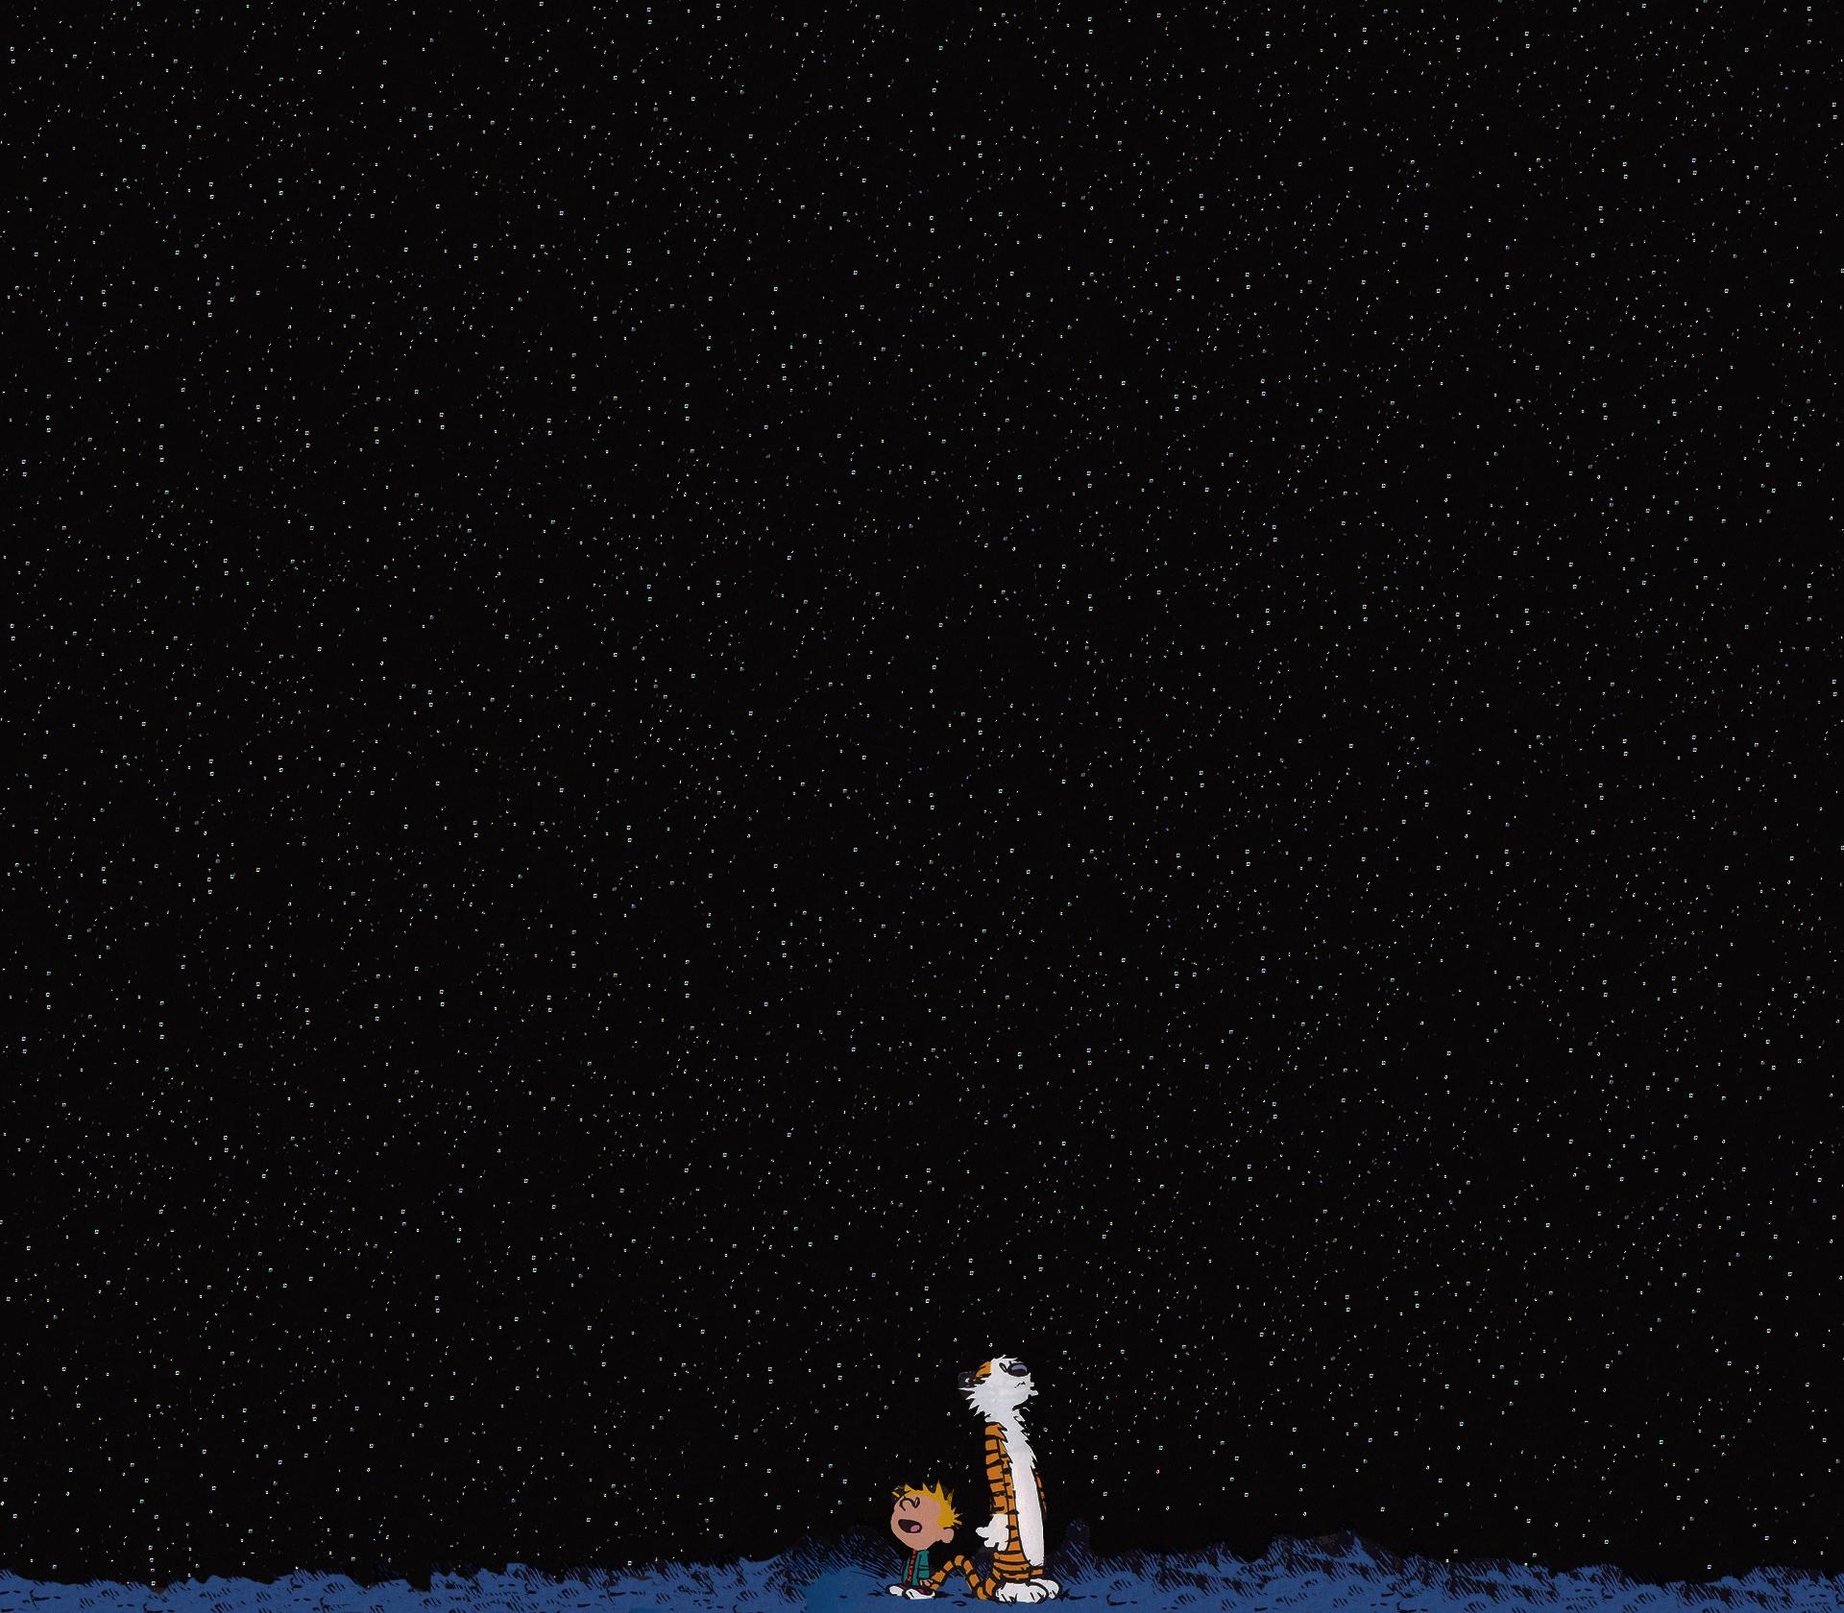
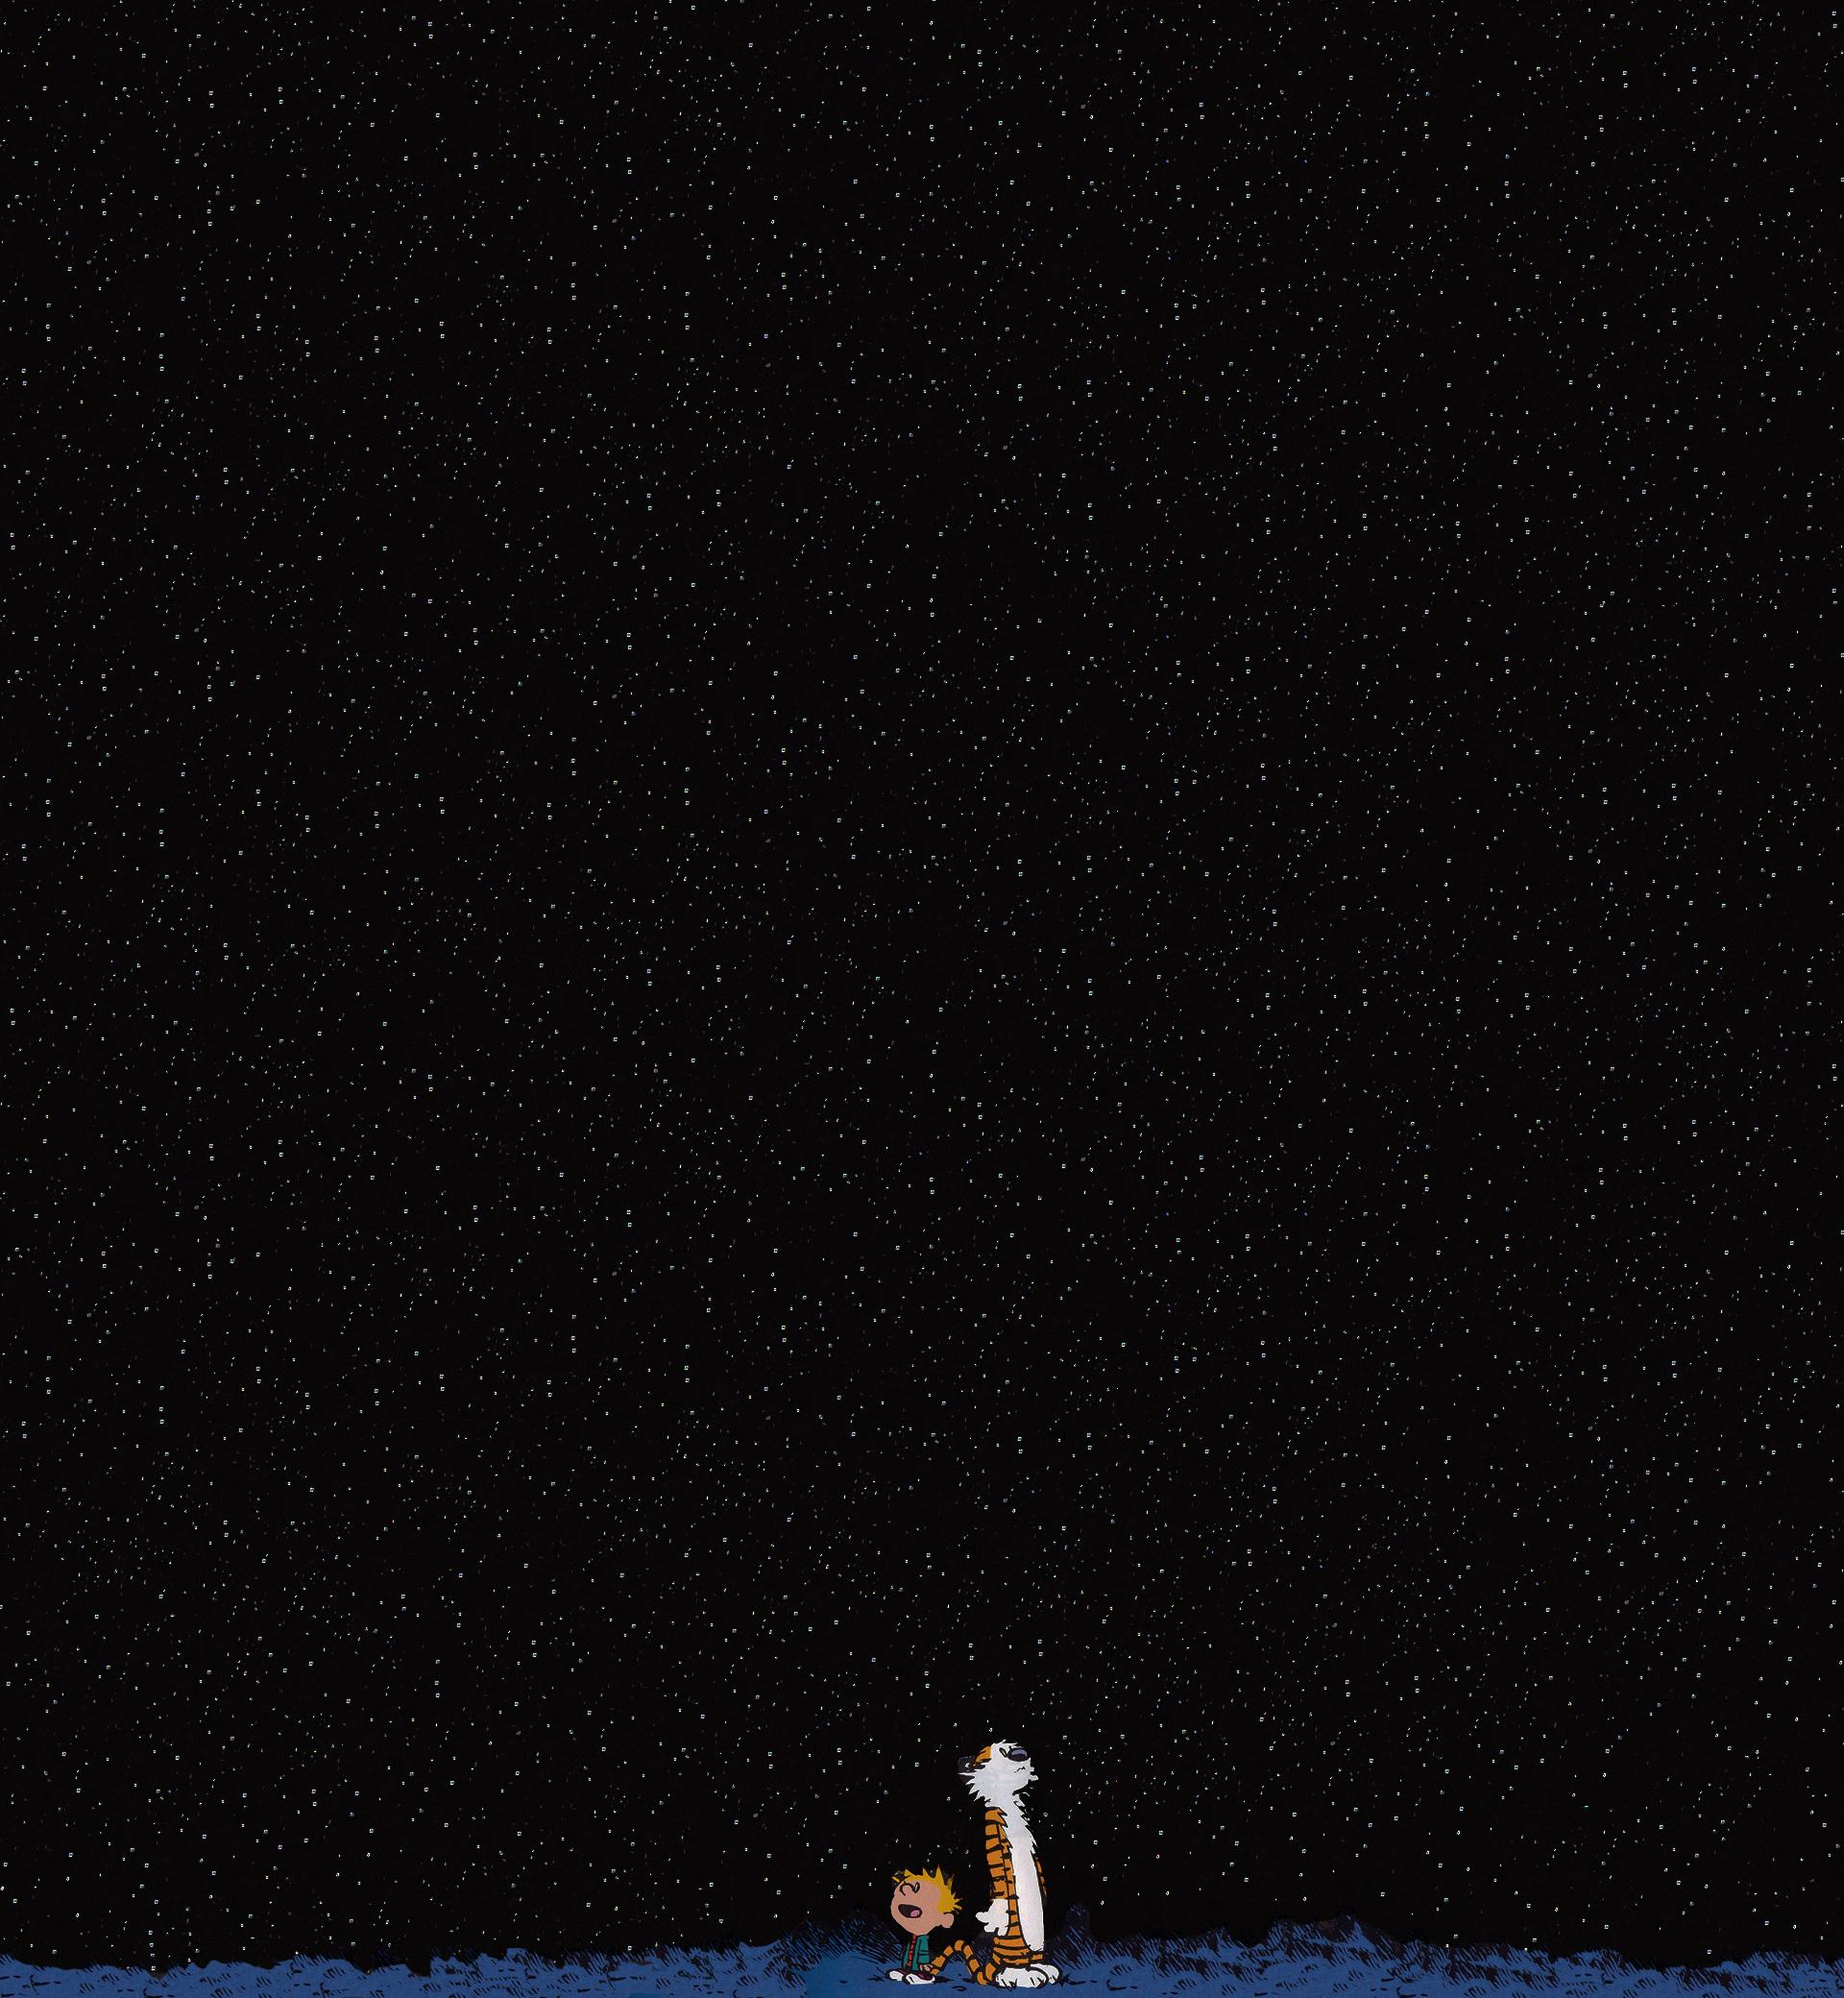
Fixed Dark mode Button, fixed Text

Changed region(s): [[0.0, 0.8357, 1.0, 1.0]]

diff --git a/CSS/main.css b/CSS/main.css
@@ -1,12 +1,16 @@
+@font-face {
+    font-family: SFCartoonistHand;
+    src: url("../Fonts/SFCartoonistHand.ttf");
+}
 body.main {
     margin: 0px;
     border-left: 0.2rem solid #290029;
     border-right: 0.2rem solid #290029;
     border-bottom: 0.2rem solid #290029;
     background-position: bottom left;
-    background-image: url("../Images/background-extended-light.png");
+    background-image: url("../Images/background-extended-light.png"), url("../Images/background-extender-light.png");
     background-color: #93c2dc;
-    background-repeat: no-repeat;
+    background-repeat: no-repeat, repeat;
     background-size: 100%;
 }
 body.main-darkmode {
@@ -15,8 +19,8 @@ body.main-darkmode {
     border-right: 0.2rem solid #290029;
     border-bottom: 0.2rem solid #290029;
     background-position: bottom left;
-    background-image: url("../Images/background-extended.png");
-    background-repeat: no-repeat;
+    background-image: url("../Images/background-extended.png"), url("../Images/background-extender.png");
+    background-repeat: no-repeat, repeat;
     background-size: 100%;
 }
 
@@ -53,6 +57,26 @@ body#gallery-darkmode {
     border-top: 0.2rem solid #290029;
     border-bottom: 0.2rem solid #290029;
 }
+.menu{
+    background-color: #91aff0;
+    margin: 0px;
+    border-top: 0.2rem solid #290029;
+    border-bottom: 0.2rem solid #290029;
+    display: none;
+}
+
+a#menu{
+    color: royalblue;
+    font-size: 200%;
+    font-family: 'Times New Roman', Times, serif;
+    display: inline-block;
+    *display: inline;
+    zoom: 1;
+    width: 33%;
+    text-align: center;
+    font-family: SFCartoonistHand;
+}
+
 a#navbar{
     color: royalblue;
     font-size: 200%;
@@ -62,8 +86,9 @@ a#navbar{
     zoom: 1;
     width: 33%;
     text-align: center;
+    font-family: SFCartoonistHand;
 }
-button#darkmode{
+button#button{
     font-size: 200%;
     font-family: 'Times New Roman', Times, serif;
     display: inline-block;
@@ -72,6 +97,25 @@ button#darkmode{
     width: 32%;
     text-align: center  
 }
+button#button-darkmode{
+    font-size: 200%;
+    font-family: 'Times New Roman', Times, serif;
+    display: inline-block;
+    *display: inline;
+    zoom: 1;
+    width: 32%;
+    text-align: center;
+    background-color: black;
+    color: white;
+}
+
+.menu-darkmode{
+    background-color: #000000;
+    margin: 0px;
+    border-top: 0.2rem solid #290029;
+    border-bottom: 0.2rem solid #290029;
+    display: none;
+}
 
 .navbar-darkmode{
     background-color: #000000;
@@ -79,10 +123,21 @@ button#darkmode{
     border-top: 0.2rem solid #290029;
     border-bottom: 0.2rem solid #290029;
 }
+
+a#menu-darkmode{
+    color: #b6ffba;
+    font-size: 200%;
+    font-family: SFCartoonistHand;
+    display: inline-block;
+    *display: inline;
+    zoom: 1;
+    width: 33%;
+    text-align: center;
+}
 a#navbar-darkmode{
     color: #b6ffba;
     font-size: 200%;
-    font-family: 'Times New Roman', Times, serif;
+    font-family: SFCartoonistHand;
     display: inline-block;
     *display: inline;
     zoom: 1;
@@ -137,11 +192,10 @@ img#image1{
     margin: 2rem;
     border: 0.2rem solid #290029;
     border-radius: 1rem;
-    font-family: 
 }
 p#paragraph1{
     float: right;
-    font-size: 400%;
+    font-size: 340%;
     max-width: 50%;
     margin: 1.8rem;
     padding: 0.2rem;
@@ -162,7 +216,7 @@ img#image2{
 }
 p#paragraph2{
     float: left;
-    font-size: 400%;
+    font-size: 340%;
     max-width: 50%;
     margin: 1.8rem;
     padding: 0.2rem;
@@ -174,7 +228,7 @@ p#paragraph2{
 
 p#paragraph2-darkmode{
     float: left;
-    font-size: 400%;
+    font-size: 340%;
     max-width: 50%;
     margin: 1.8rem;
     padding: 0.2rem;
@@ -186,7 +240,7 @@ p#paragraph2-darkmode{
 }
 p#paragraph1-darkmode{
     float: right;
-    font-size: 400%;
+    font-size: 340%;
     max-width: 50%;
     margin: 1.8rem;
     padding: 0.2rem;
@@ -350,7 +404,74 @@ a#wikilink{
         font-family: SFCartoonistHand;
     }
 }
-@font-face {
-    font-family: SFCartoonistHand;
-    src: url("../Fonts/SFCartoonistHand.ttf");
+
+@media (max-width: 900px) {
+    img#image1{
+        float: none;
+        display: block;
+        margin-left: auto;
+        margin-right: auto;
+        max-width: 90%;
+        height: auto;
+        border: 0.2rem solid #290029;
+        border-radius: 1rem;
+    }
+    p#paragraph1{
+        font-size: 300%;
+        max-width: 100%;
+        margin: 1.8rem;
+        padding: 0.2rem;
+        border: 0.3rem solid #250025;
+        border-radius: 1rem;
+        background-color: rgba(255,255,255,0.9);
+        font-family: SFCartoonistHand;
+    }
+    
+    img#image2{
+        float: none;
+        display: block;
+        margin-left: auto;
+        margin-right: auto;
+        max-width: 90%;
+        height: auto;
+        margin-top: 1rem;
+        margin-bottom: 1rem;
+        border: 0.2rem solid #290029;
+        border-radius: 1rem;
+        clear: right;
+    }
+    p#paragraph2{
+        font-size: 300%;
+        max-width: 100%;
+        margin: 1.8rem;
+        padding: 0.2rem;
+        border: 0.3rem solid #250025;
+        border-radius: 1rem;
+        background-color: rgba(255,255,255,0.9);
+        font-family: SFCartoonistHand;
+    }
+    
+    p#paragraph2-darkmode{
+        font-size: 300%;
+        max-width: 100%;
+        margin: 1.8rem;
+        padding: 0.2rem;
+        border: 0.3rem solid #250025;
+        border-radius: 1rem;
+        background-color: rgba(0,0,0,0.8);
+        color: white;
+        font-family: SFCartoonistHand;
+    }
+    p#paragraph1-darkmode{
+
+        font-size: 300%;
+        max-width: 100%;
+        margin: 1.8rem;
+        padding: 0.2rem;
+        border: 0.3rem solid #250025;
+        border-radius: 1rem;
+        background-color: rgba(0,0,0,0.8);
+        color: white;
+        font-family: SFCartoonistHand;
+    }
 }

diff --git a/index.html b/index.html
@@ -37,16 +37,21 @@
     <div class="navbar">
         <a id="navbar" href="index.html">Page 1</a>
         <a id="navbar" href="gallery.html">Page 2</a>
-        <button id="navbar" onclick="darkModeSwitch()">Darkmode</button>
+        <button id="button" onclick="darkModeSwitch()">Dark Mode</button>
+    </div>
+    <!--<div class="menu">
+        <a id="menu" href="https://html5zombo.com">Zombo.com</a>
+        <a id="menu" href="https://en.wikipedia.org/wiki/Calvin_and_Hobbes">Calvin and Hobbes on Wikipedia</a>
+        <button id="darkmode" onclick="darkModeSwitch()">Dark Mode</button>-->
     </div>
     <div class="main-container">
         <div class="toptext">
-            <img id="portrait" src="Images/testsquare.png">
+            <img id="portrait" src="Images/portrait.png">
             <p id="paragraph0">Calvin and Hobbes</p>
         </div>
 
         <div class="maincontent">
-            <img id="image1" src="Images/testsquare.png">
+            <img id="image1" src="Images/calvin.png">
             <p id="paragraph1">
                 This is Calvin; he is the main character and one of two protagonists of Calvin and Hobbes. He is six years old, and the inventor of several machines, which include:<br>
                 - A time machine.<br>
@@ -54,7 +59,7 @@
                 <span style="margin-bottom: 0px;">- A "transmogrifier," which can transform the user into any form.*</span><br>
                 <span style="font-size: 50%; margin: 0.1rem; margin-top: 0px;">*There is also a hand-held version.</span>
             </p>
-            <img id="image2" src="Images/testsquare.png">
+            <img id="image2" src="Images/hobbes.png">
             <p id="paragraph2">
                 This is Hobbes; he is Calvin's imaginary friend and the secondary protagonist of Calvin and Hobbes. There isn't much interesting information about him; it's likely that he is six years old, as he is Calvin's imaginary friend.
             </p>

diff --git a/JS/index.js b/JS/index.js
@@ -10,6 +10,9 @@ function darkModeSwitch(){
     var navbarElement = document.getElementsByClassName("navbar");
     var darkNavbarElement = document.getElementsByClassName("navbar-darkmode");
     var topbarElement = document.getElementsByTagName("img");
+    var menuElement = document.getElementsByClassName("menu");
+    var darkMenuElement = document.getElementsByClassName("menu-darkmode");
+    var buttonElement = document.getElementsByTagName("button");
     
     //changing elements to darkmode elements
     if (bodyElement[0].className == "main"){
@@ -22,7 +25,11 @@ function darkModeSwitch(){
         navbarElement[0].className = "navbar-darkmode";
         linkElements[0].id = "navbar-darkmode";
         linkElements[1].id = "navbar-darkmode";
+        linkElements[2].id = "menu-darkmode";
+        linkElements[3].id = "menu-darkmode";
         topbarElement[0].src = "Images/header-background-darkmode.png";
+        menuElement[0].className = "menu-darkmode";
+        buttonElement[0].id = "button-darkmode";
     }
 
     //changing elements back to lightmode
@@ -36,6 +43,22 @@ function darkModeSwitch(){
         darkNavbarElement[0].className = "navbar";
         linkElements[0].id = "navbar";
         linkElements[1].id = "navbar";
+        linkElements[2].id = "menu";
+        linkElements[3].id = "menu";
         topbarElement[0].src = "Images/header-background.png";
+        darkMenuElement[0].className = "menu";
+        buttonElement[0].id = "button";
     }
 }
+
+function toggleMenu() {
+    var x = document.getElementsByClassName("menu");
+    var y = document.getElementsByClassName("dark-menu");
+    if (x.style.display == "none" || y.style.display == "none") {
+      x[0].style.display = "block";
+      y[0].style.display = "block";
+    } else {
+      x[0].style.display = "none";
+      y[0].style.display = "none";
+    }
+  }

diff --git a/gallery.html b/gallery.html
@@ -18,15 +18,15 @@
             <a id="navbar" href="gallery.html">Page 2</a>
         </div>
         <div class="flex-container">
-            <img class="flex-item" src="Images/testsquare.png">
-            <img class="flex-item" src="Images/testsquare.png">
-            <img class="flex-item" src="Images/testsquare.png"><br>
-            <img class="flex-item" src="Images/testsquare.png">
-            <img class="flex-item" src="Images/testsquare.png">
-            <img class="flex-item" src="Images/testsquare.png"><br>
-            <img class="flex-item" src="Images/testsquare.png">
-            <img class="flex-item" src="Images/testsquare.png">
-            <img class="flex-item" src="Images/testsquare.png">
+            <img class="flex-item" src="Images/calvin.png">
+            <img class="flex-item" src="Images/hobbes.png">
+            <img class="flex-item" src="Images/portrait.png"><br>
+            <img class="flex-item" src="Images/log.png">
+            <img class="flex-item" src="Images/bored.png">
+            <img class="flex-item" src="Images/sleepy.png"><br>
+            <img class="flex-item" src="Images/yukon-ho.png">
+            <img class="flex-item" src="Images/sleepy2.png">
+            <img class="flex-item" src="Images/jammin.png">
         </div>
         <a id="wikilink" href="https://calvinandhobbes.fandom.com/wiki/Main_Page">More information (and images, most likely) here.</a>
     </div>
